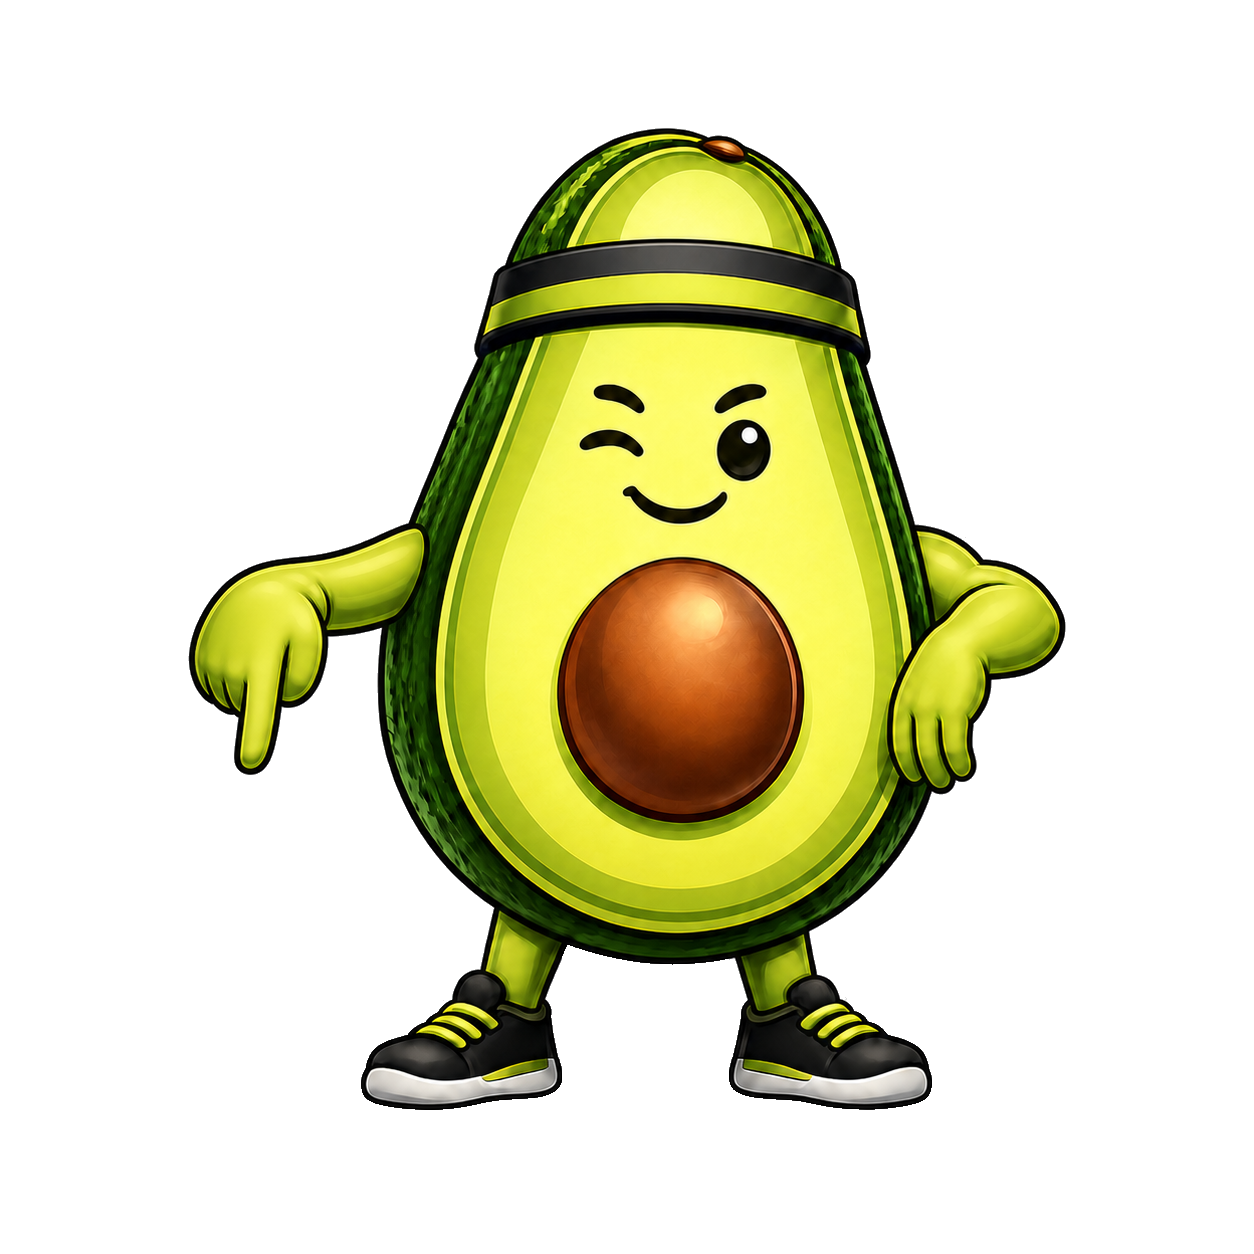
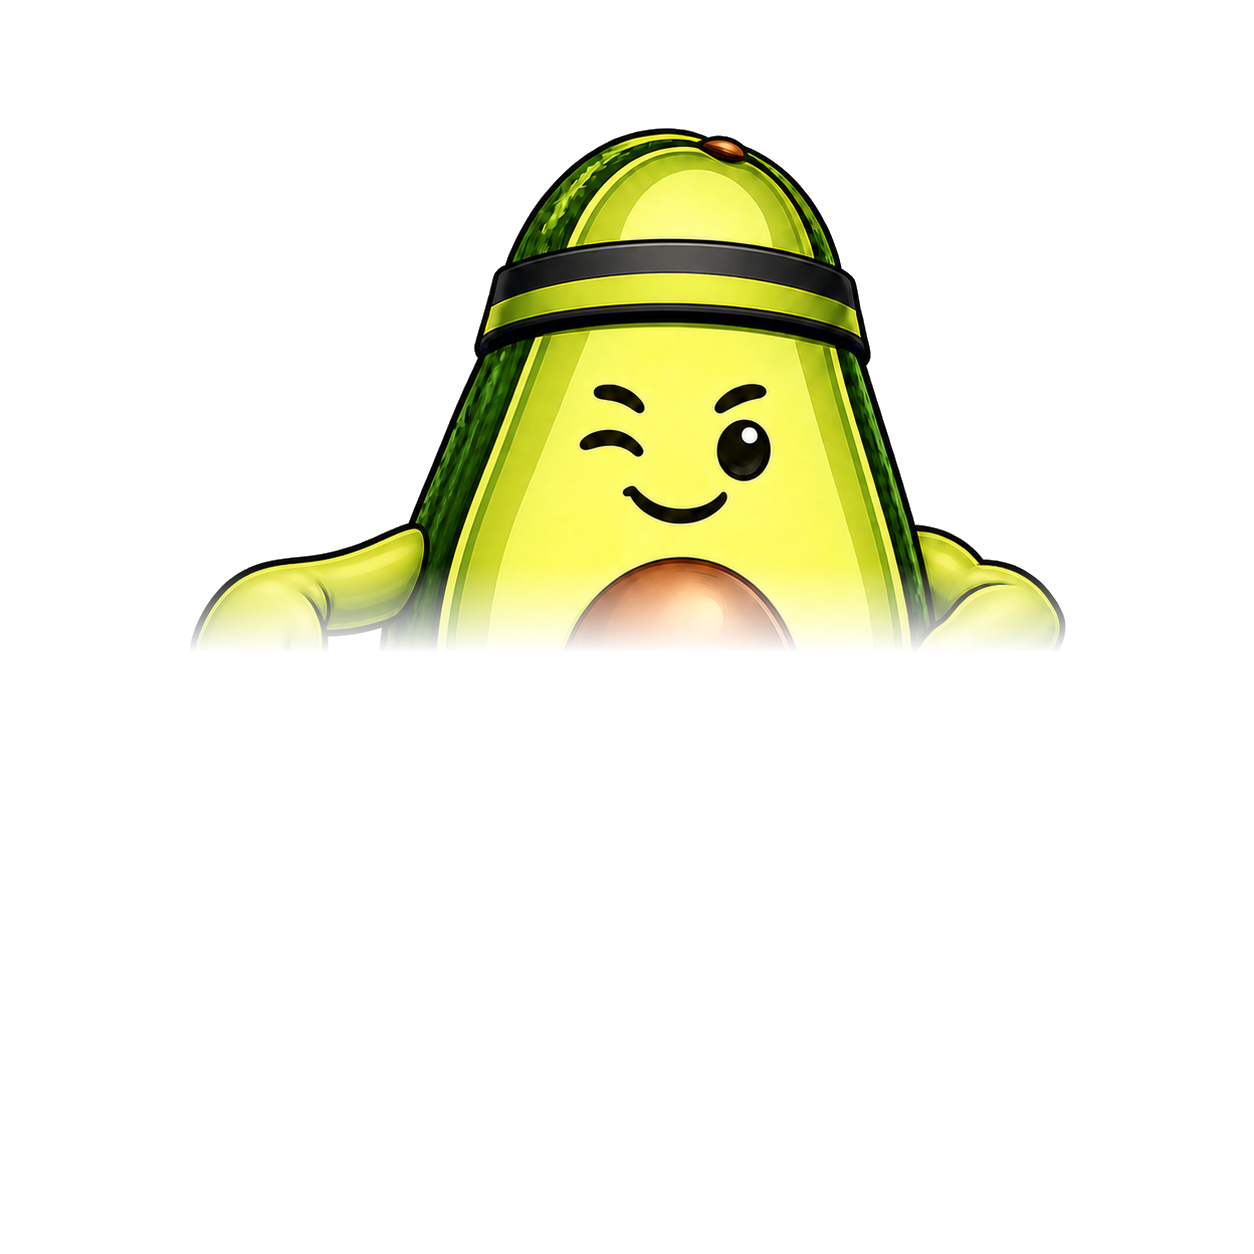
fix(training): Coach-Koerper blendet weich hinter der Karte aus
Statt hartem Schnitt (durchgeschnittener Kern) faded der untere Koerperrand jetzt
sanft aus -> Avocado verschwindet weich hinter der Kartenkante, beide Haende
liegen sauber davor. Position auf S=210 / Verlauf bei 52% abgestimmt.

Changed region(s): [[0.1244, 0.4354, 0.8708, 0.9019]]

diff --git a/app/components/ExerciseDetail.tsx b/app/components/ExerciseDetail.tsx
@@ -276,10 +276,10 @@ function makeStyles(c: Colors) {
     desc: { fontSize: 15, color: c.text, lineHeight: 22, marginBottom: 16 },
     h2: { fontSize: 17, fontWeight: '700', color: c.heading, marginBottom: 8 },
     illusWrap: { position: 'relative', marginTop: 30 },
-    coachBodyClip: { position: 'absolute', top: -105, left: '50%', marginLeft: -105, width: 210, height: 105, overflow: 'hidden', zIndex: 1 },
+    coachBodyClip: { position: 'absolute', top: -109, left: '50%', marginLeft: -105, width: 210, height: 110, overflow: 'hidden', zIndex: 1 },
     coachImgBody: { position: 'absolute', top: 0, left: 0, width: 210, height: 210 },
     coachArmsClip: { position: 'absolute', top: 0, left: '50%', marginLeft: -105, width: 210, height: 44, overflow: 'hidden', zIndex: 6 },
-    coachImgArms: { position: 'absolute', top: -105, left: 0, width: 210, height: 210 },
+    coachImgArms: { position: 'absolute', top: -109, left: 0, width: 210, height: 210 },
     illusCard: { backgroundColor: c.card, borderRadius: 16, paddingVertical: 16, paddingHorizontal: 14, alignItems: 'center', marginBottom: 16, borderWidth: StyleSheet.hairlineWidth, borderColor: c.border },
     illusCaption: { fontSize: 13, color: c.textMuted, marginTop: 8, fontWeight: '600' },
     stepRow: { flexDirection: 'row', alignItems: 'flex-start', marginBottom: 10 },
